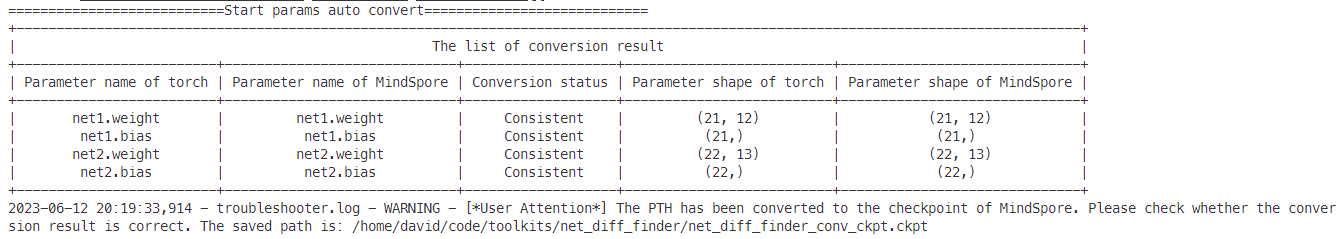
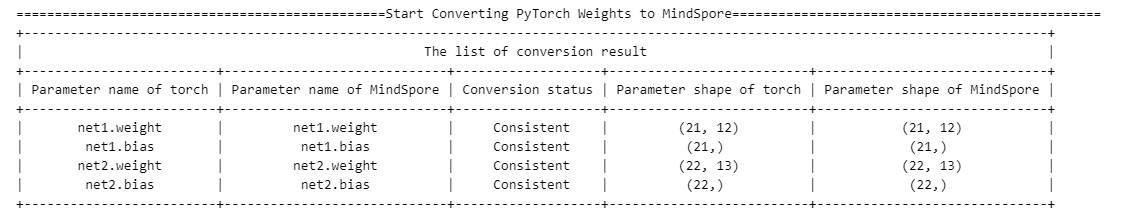
Optimize NetDifferenceFinder comparison functionality by comparing pth and converted loaded ckpt files.

diff --git a/troubleshooter/troubleshooter/migrator/net_diff_finder.py b/troubleshooter/troubleshooter/migrator/net_diff_finder.py
@@ -37,7 +37,7 @@ __all__ = [
 
 class NetDifferenceFinder:
     init_kwargs = {"pt_params_path", "ms_params_path", "auto_conv_ckpt", "fix_seed", "out_path", "pt_org_pth_name",
-                   "conv_ckpt_name", "ms_org_ckpt_name"}
+                   "conv_ckpt_name", "ms_conv_ckpt_name"}
     TITLE = 'The comparison results of Net'
     FIELD_NAMES = ["PyTorch out", "MindSpore out",
                 "results of comparison", "match ratio", "cosine similarity", "(mean, max)"]
@@ -74,9 +74,9 @@ class NetDifferenceFinder:
         self.conv_ckpt_name = os.path.join(
             self.out_path,
             kwargs.get('conv_ckpt_name', 'net_diff_finder_conv_ckpt.ckpt'))
-        self.ms_org_ckpt_name = os.path.join(
+        self.ms_conv_ckpt_name = os.path.join(
             self.out_path,
-            kwargs.get('ms_org_ckpt_name', 'net_diff_finder_ms_org_ckpt.ckpt'))
+            kwargs.get('ms_conv_ckpt_name', 'net_diff_finder_ms_conv_ckpt.ckpt'))
 
     def _load_and_convert(self, pt_params_path, ms_params_path, auto_conv_ckpt):
         if pt_params_path and ms_params_path:
@@ -89,8 +89,8 @@ class NetDifferenceFinder:
             validate_and_normalize_path(pt_params_path)
             self.pt_net.load_state_dict(torch.load(pt_params_path))
             if auto_conv_ckpt:
-                self._conv_compare_ckpt(auto_conv_ckpt)
-                self._load_conve_ckpt()
+                self._convert_ckpt()
+                self._load_and_save()
             else:
                 logger.user_warning("For 'ts.migrator.NetDifferenceFinder', \
                     please ensure that the network has been initialized when \
@@ -103,8 +103,8 @@ class NetDifferenceFinder:
                 please ensure that the network has been initialized when \
                 'auto_conv_ckpt' is set to 'False' 'pt_params_path' is empty.")
         elif auto_conv_ckpt:
-            self._conv_compare_ckpt(auto_conv_ckpt)
-            self._load_conve_ckpt()
+            self._convert_ckpt()
+            self._load_and_save()
         else:
             logger.error("For 'ts.migrator.NetDifferenceFinder', \
                 please ensure that the network has been initialized when \
@@ -124,6 +124,11 @@ class NetDifferenceFinder:
                 for item in items:
                     if not isinstance(item, (ms.Tensor, np.ndarray, torch.Tensor, str)):
                         raise TypeError("The type of model input must be ms.Tensor, np.ndarray, torch.Tensor or str")
+
+    def _load_and_save(self):
+        param_dict = ms.load_checkpoint(self.conv_ckpt_name)
+        ms.load_param_into_net(self.ms_net, param_dict)
+        ms.save_checkpoint(self.ms_net, self.ms_conv_ckpt_name)
 
     def _check_auto_input(self, auto_inputs):
         if auto_inputs is None:
@@ -176,23 +181,28 @@ class NetDifferenceFinder:
                 equal_nan=False):
         self._check_auto_input(auto_inputs)
         self._load_and_convert(self.pt_params_path, self.ms_params_path, self.auto_conv_ckpt)
+        self._compare_ckpt()
         if auto_inputs:
             inputs = self._build_auto_input(auto_inputs)
         self._check_input(inputs)
         inputs = self._convert_data_format(inputs)
+        compare_results = self._inference(inputs, rtol, atol, equal_nan)
+        print_diff_result(compare_results, title=self.TITLE, field_names=self.FIELD_NAMES)
+
+    def _inference(self, inputs, rtol, atol, equal_nan):
         compare_results = []
         if self.print_level:
-            print_separator_line("Start inference net", length=80)
+            print_separator_line("Start Performing Network Inference", length=141)
         for idx, input in enumerate(inputs):
             input_data = self._get_input_data(input)
             if self.print_level:
-                print_separator_line(f"Start case {idx} inference", length=80, character='-')
+                print_separator_line(f"Start case {idx} inference", length=141, character='-')
             result_ms, result_pt = self._infer_net(input_data, self.ms_net, self.pt_net, idx)
             if len(result_ms) != len(result_pt):
                 raise ValueError("Output results are in different counts! "
                                  f"MindSpore output num: {len(result_ms)}, PyTorch output shape: {len(result_pt)}.")
             compare_results.extend(self._compare_results(result_ms, result_pt, idx, atol, rtol, equal_nan))
-        print_diff_result(compare_results, title=self.TITLE, field_names=self.FIELD_NAMES)
+        return compare_results
 
     def _get_input_data(self, input):
         input_data = []
@@ -224,48 +234,54 @@ class NetDifferenceFinder:
         self.pt_net.eval()
         self.ms_net.set_train(False)
 
-    def _save_ckpt(self):
+    def _convert_ckpt(self):
         torch.save(self.pt_net.state_dict(), self.pt_org_pth_name)
-        ms.save_checkpoint(self.ms_net, self.ms_org_ckpt_name)
+        if self.auto_conv_ckpt == 0:
+            return
+        if self.auto_conv_ckpt == 1:
+            self.weight_map = weight_migrator.get_weight_map(pt_model=self.pt_net, print_map=False)
+            if self.print_level:
+                print_separator_line("Start Converting PyTorch Weights to MindSpore", length=141)
+            weight_migrator.convert_weight(weight_map=self.weight_map,
+                                           pt_file_path=self.pt_org_pth_name,
+                                           ms_file_save_path=self.conv_ckpt_name,
+                                           print_level=self.print_level,
+                                           print_save_path=False)
+        elif self.auto_conv_ckpt == 2:
+            self._msadapter_pth2ckpt(self.pt_org_pth_name, self.conv_ckpt_name)
+        else:
+            raise ValueError("For 'NetDifferenceFinder',  the parameter 'auto_conv_ckpt' "
+                             f"currently only supports 0, 1, and 2, but got {self.auto_conv_ckpt}.")
 
-    def _conv_compare_ckpt(self, mode=1):
-        self._save_ckpt()
+    def _compare_ckpt(self):
+        if self.compare_params is False:
+            return
         shape_field_names = ["Parameter name of torch", "Parameter name of MindSpore", "Whether shape are equal",
                              "Parameter shape of torch", "Parameter shape of MindSpore"]
         value_field_names = ["Parameter name of torch", "Parameter name of MindSpore", "results of comparison",
                              "match ratio", "cosine similarity", "(mean, max)"]
-        if mode == 1:
-            weight_map = weight_migrator.get_weight_map(pt_model=self.pt_net, print_map=False)
-            if self.print_level:
-                print_separator_line("Start params auto convert", length=80)
-            weight_migrator.convert_weight(weight_map=weight_map, pt_file_path=self.pt_org_pth_name,
-                                           ms_file_save_path=self.conv_ckpt_name, print_level=self.print_level)
-            if self.compare_params:
-                print_separator_line("Start params compare", length=80)
-                weight_migrator.compare_ms_ckpt(orig_file_path=self.conv_ckpt_name,
-                                                target_file_path=self.ms_org_ckpt_name,
-                                                compare_value=False, weight_map=weight_map,
-                                                shape_field_names=shape_field_names,
-                                                value_field_names=value_field_names)
-        elif mode == 2:
-            self._msadapter_pth2ckpt(self.pt_org_pth_name, self.conv_ckpt_name)
-            if self.compare_params:
-                print_separator_line("Start compare params of ", length=80)
-                weight_migrator.compare_ms_ckpt(orig_file_path=self.conv_ckpt_name,
-                                                target_file_path=self.ms_org_ckpt_name,
-                                                compare_value=False,
-                                                shape_field_names=shape_field_names,
-                                                value_field_names=value_field_names)
+        if self.auto_conv_ckpt == 1:
+            print_separator_line("Start comparing PyTorch and MindSpore parameters", length=141)
+            weight_migrator.compare_ms_ckpt(orig_file_path=self.conv_ckpt_name,
+                                            target_file_path=self.ms_conv_ckpt_name,
+                                            compare_value=True, weight_map=self.weight_map,
+                                            shape_field_names=shape_field_names,
+                                            value_field_names=value_field_names)
+        elif self.auto_conv_ckpt == 2:
+            print_separator_line("Start comparing PyTorch and MSAdapter parameters", length=141)
+            weight_migrator.compare_ms_ckpt(orig_file_path=self.conv_ckpt_name,
+                                            target_file_path=self.ms_conv_ckpt_name,
+                                            compare_value=True,
+                                            shape_field_names=shape_field_names,
+                                            value_field_names=value_field_names)
         else:
-            if self.compare_params:
-                raise ValueError("For 'NetDifferenceFinder', when the argument 'auto_conv_ckpt' is 0, "
-                                 "the argument 'compare_params' is not supported.")
+            raise ValueError("For 'NetDifferenceFinder', when the argument 'auto_conv_ckpt' is 0, "
+                             "the argument 'compare_params' is not supported.")
 
     def _load_conve_ckpt(self):
         param_dict = ms.load_checkpoint(self.conv_ckpt_name)
         ms.load_param_into_net(self.ms_net, param_dict)
         clear_tmp_file(self.conv_ckpt_name)
-        
 
     def _infer_net(self, input_data, ms_net, pt_net, idx):
         start_pt = time.time()

diff --git a/troubleshooter/docs/migrator.md b/troubleshooter/docs/migrator.md
@@ -367,9 +367,9 @@ name_list = custom_fun(name_list)
 ts.migrator.compare_npy_dir(name_map_list=name_list)
 ```
 
-## 应用场景5：比较mindspore和pytorch网络输出是否一致
+## 应用场景5：比较MindSpore和PyTorch网络输出是否一致
 
-在进行网络迁移时，由于大多数网络是使用pytorch搭建的，在迁移到mindspore过程中，我们需要比较mindspore和pytorch网络输出结果是否一致。此功能实现对比mindspore和pytorch的输出结果。
+在进行网络迁移时，由于大多数网络是使用PyTorch搭建的，在迁移到MindSpore过程中，我们需要比较MindSpore和PyTorch网络输出结果是否一致。此功能实现对比MindSpore和PyTorch的输出结果。
 
 ### 接口定义
 #### ```class NetDifferenceFinder```
@@ -377,13 +377,13 @@ ts.migrator.compare_npy_dir(name_map_list=name_list)
 
 **位置参数：**
 - pt_net(`torch.nn.Module`): torch模型实例
-- ms_net(`mindspore.nn.Cell`): mindspore模型实例
+- ms_net(`mindspore.nn.Cell`): MindSpore模型实例
 - print_level(int): 日志打印等级，默认值为1。
 
 **kwargs参数：**
 - pt_params_path(`str`, 可选): torch模型参数文件路径
-- ms_params_path(`str`, 可选): mindspore模型参数文件路径
-- auto_conv_ckpt(`int`, 可选): 权重自动转换方式，默认值为1。为0时，不进行权重转换；为1时为PyTorch权重转换到MindSpore；为2时为PyTorch权重转换到MsAdapter。
+- ms_params_path(`str`, 可选): MindSpore模型参数文件路径
+- auto_conv_ckpt(`int`, 可选): 权重自动转换方式，默认值为1。为0时，不进行权重转换；为1时为PyTorch权重转换到MindSpore；为2时为PyTorch权重转换到MSAdapter。
 - compare_params(`bool`, 可选): 是否开启ckpt对比，默认值为True。开启时，会使用PyTorch的保存的pth和MindSpore保存的ckpt进行比较，以校验网络结构。
 > **说明：**
 > 1. 默认参数下，会将PyTorch网络的权重保存、转换并加载MindSpore网络中，以保证两边的模型权重初始化一致。除此以外，还会将PyTorch的权重文件和MindSpore网络自身保存的权重文件进行比对，以校验网络结构。
@@ -395,9 +395,9 @@ ts.migrator.compare_npy_dir(name_map_list=name_list)
 | --------------- | ------------------------------------------------------------ | ------------------------------------------------------------ |
 | inputs      | 单输入：`Union(tuple[torch.tensor], tuple[mindspore.Tensor], tuple[numpy.ndarray], tuple[str])`；多输入：`list[Union(tuple[torch.tensor], tuple[mindspore.Tensor], tuple[numpy.ndarray], tuple[str])]` | 模型输入。模型输入支持`torch.Tensor`, `mindspore.Tensor`, `np.ndarray`以及`str`，每个`tuple`中包含一个模型输入；当用户想要同时验证多组数据时，请使用一个列表存放所有输入。 |
 | auto_inputs | 单输入：`tuple[tuple[numpy.shape, numpy.dtype]]`；多输入：`{'input': tuple[tuple[numpy.shape, numpy.dtype]], 'num':int}` | 默认为`None`，为了方便用户快速验证。用户可以不输入`inputs`，而是输入`auto_inputs`，`auto_inputs`每一个元素为模型输入的`shape`，如果需要使用多次测试，可以传入一个字典，字典的键为`'input'`和`'num'`，分别表示每次的输入以及输入个数 |
-| rtol            | `float`                                                      | 相对容差（relative tolerance）是指两个数值之间的相对误差不能超过rtol。默认值为1e-4 |
-| atol            | `float`                                                      | 绝对容差（absolute tolerance）是指两个数值之间的绝对误差不能超过atol。默认值为1e-8 |
-| equal_nan       | `bool`                                                       | 是否将NaN视为相等。默认值为False                             |
+| rtol            | `float`                                                      | 相对误差，默认值为`1e-4`，内部调用`numpy.allclose`的参数。 |
+| atol            | `float`                                                      | 绝对误差，默认值为`1e-4`，内部调用`numpy.allclose`的参数。 |
+| equal_nan       | `bool`                                                       | 是否将nan视为相等，默认值为 `False`，内部调用`numpy.allclose`的参数。 |
 
 
 ### 如何使用
@@ -414,17 +414,25 @@ diff_finder.compare(auto_inputs=(((1, 12), np.float32), ))
 ```
 
 输出结果：
-默认参数下，输出主要包含权重转换、Pytorch和Mindspore的权重比较、网络推理三部分。
+默认参数下，输出主要包含权重转换（当auto_conv_ckpt为2，对应MSAdapter模式时，由于权重一致，因此没有此过程）、PyTorch和MindSpore的权重比较、网络推理三部分。
 
 **权重转换**
+
+此过程会将输入的PyTorch网络自动保存pth文件，并转换为MindSpore的ckpt文件。转换中会显示转换详情。
 ![权重转换](images/netdifffinder_convert.png)
 **权重比较**
+
+在权重转换之后，会将转换后的ckpt加载到MindSpore的网络中。为确认两边模型参数一致，此过程会将加载后网络保存的ckpt和PyTorch的pth文件进行比较，包括shape和value两部分。
+
 ![权重比较](images/netdifffinder_compare.png)
 **网络推理**
+
+最后会执行网络推理。此过程会固定随机性，并将PyTorch的网络设置为`eval`模式，MindSpore设置`set_train(False)`。将构造的数据分别输入到两个网络中执行前向推理，获得对应结果，最后比较结果的差异。
+
 ![网络推理](images/netdifffinder_infer.png)
 
 > **提示：**
-> 对于mindspore和pytorch模型不在同一个项目中的情况，无法直接比较网络输出，可以使用`sys.path.insert(0, path)`来把模型所在的项目加入系统路径，然后实例化模型比较。例如：
+> 对于MindSpore和PyTorch模型不在同一个项目中的情况，无法直接比较网络输出，可以使用`sys.path.insert(0, path)`来把模型所在的项目加入系统路径，然后实例化模型比较。例如：
 > ```python
 > import sys
 > sys.path.insert(0, "path to your mindspore model define project")
